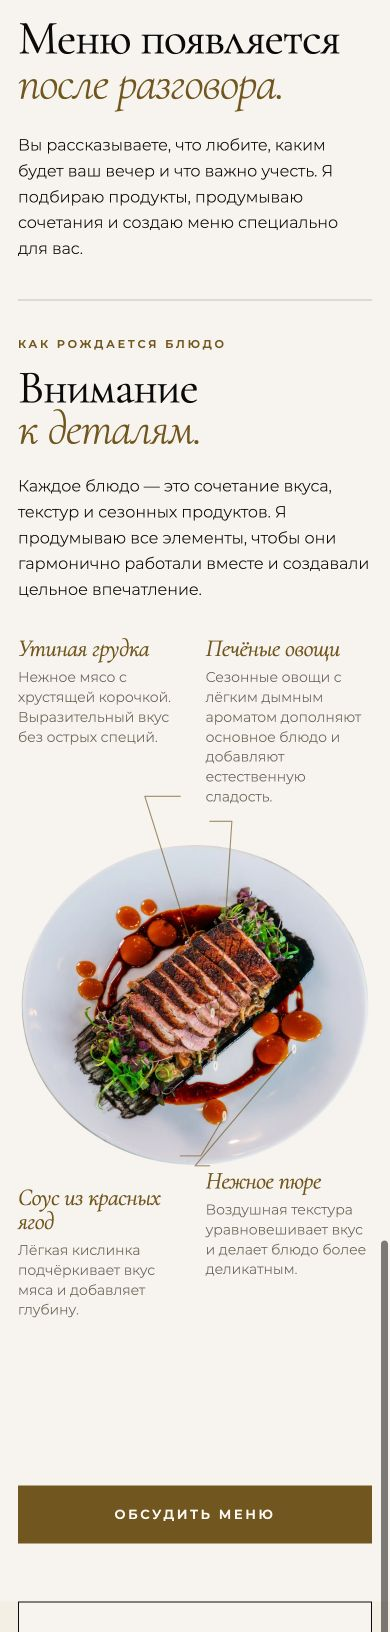
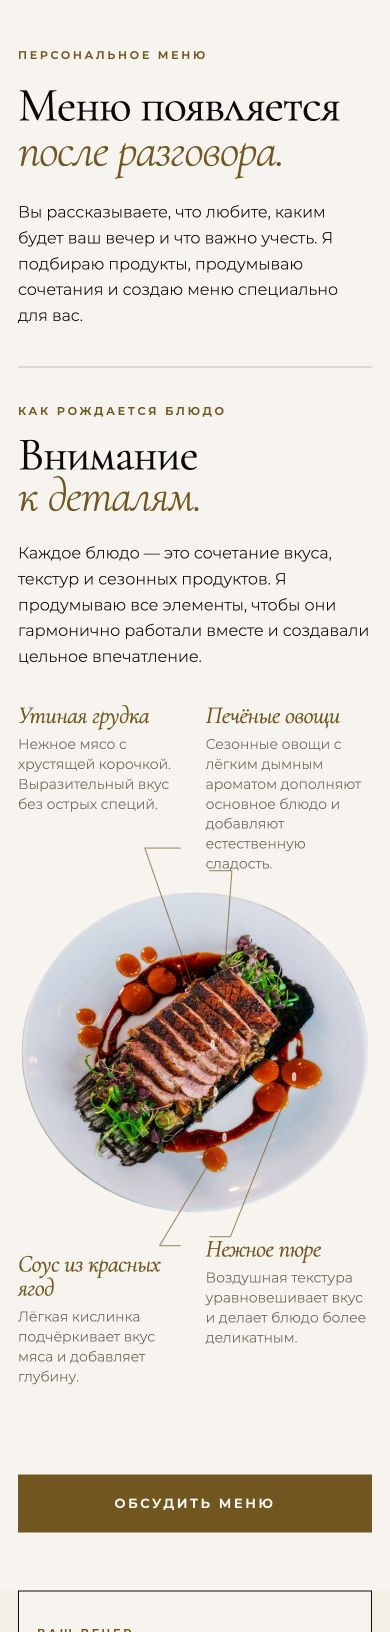
fix: tighten mobile menu spacing and finalize visual checks

Changed region(s): [[0.0308, 0.0, 0.9538, 0.8438], [0.0308, 0.75, 1.0, 1.0], [0.8308, 0.0, 0.8615, 0.0312]]

diff --git a/app/globals.css b/app/globals.css
@@ -1324,7 +1324,7 @@ button:focus-visible,
 
   .menu-plate-stage {
     aspect-ratio: auto;
-    height: clamp(780px, 210vw, 840px);
+    height: clamp(720px, 190vw, 780px);
   }
 
   .menu-plate-photo {
@@ -1370,12 +1370,12 @@ button:focus-visible,
   }
 
   .menu-plate-note-puree {
-    top: 65%;
+    top: 72%;
     right: 0;
   }
 
   .menu-plate-note-sauce {
-    top: 67%;
+    top: 74%;
     bottom: auto;
     left: 0;
   }
@@ -1403,7 +1403,7 @@ button:focus-visible,
   }
 
   .menu-plate-stage {
-    height: 780px;
+    height: 720px;
   }
 }
 

diff --git a/app/page.tsx b/app/page.tsx
@@ -210,8 +210,8 @@ function PersonalMenuPlate() {
           <g className="menu-plate-leaders-phone">
             <path d="M 550 160 H 430 L 660 377" />
             <path d="M 650 185 H 725 L 670 430" />
-            <path d="M 650 530 H 600 L 936 413" />
-            <path d="M 550 520 H 620 L 700 480" />
+            <path d="M 650 590 H 720 L 936 413" />
+            <path d="M 550 600 H 480 L 700 480" />
             <circle cx="660" cy="377" r="4" />
             <circle cx="670" cy="430" r="4" />
             <circle cx="936" cy="413" r="4" />
